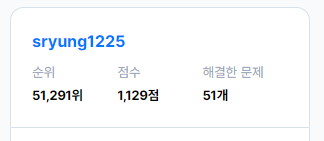
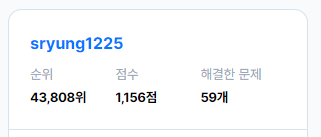
day14 : 대문자와 소문자

diff --git a/Level0/대문자와소문자.js b/Level0/대문자와소문자.js
@@ -1,0 +1,17 @@
+function solution(my_string) {
+  let answer = "";
+  for(let i of my_string){
+    if(i === i.toUpperCase()){
+      answer += i.toLowerCase();
+    } else {
+      answer += i.toUpperCase();
+    }
+  }
+  return answer;
+}
+
+// 다른 풀이 : map 사용
+// function solution(my_string) {
+//   let answer = [...my_string].map(v => v === v.toUpperCase() ? v.toLowerCase() : v.toUpperCase()).join("");
+//   return answer;
+// }

diff --git a/README.md b/README.md
@@ -84,3 +84,4 @@
 | 0 | [가까운 수](https://school.programmers.co.kr/learn/courses/30/lessons/120890) | [가까운수.js](./Level0/가까운수.js)
 | 0 | [369게임](https://school.programmers.co.kr/learn/courses/30/lessons/120891) | [369게임.js](./Level0/369게임.js)
 | 0 | [암호 해독](https://school.programmers.co.kr/learn/courses/30/lessons/120892) | [암호해독.js](./Level0/암호해독.js)
+| 0 | [대문자와 소문자](https://school.programmers.co.kr/learn/courses/30/lessons/120893) | [대문자와소문자.js](./Level0/대문자와소문자.js)
